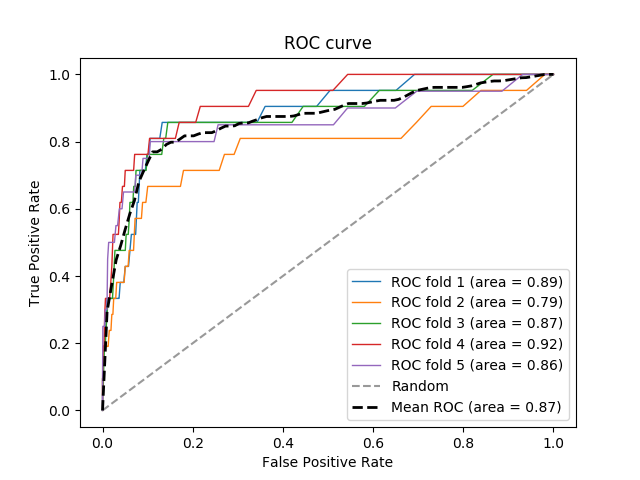
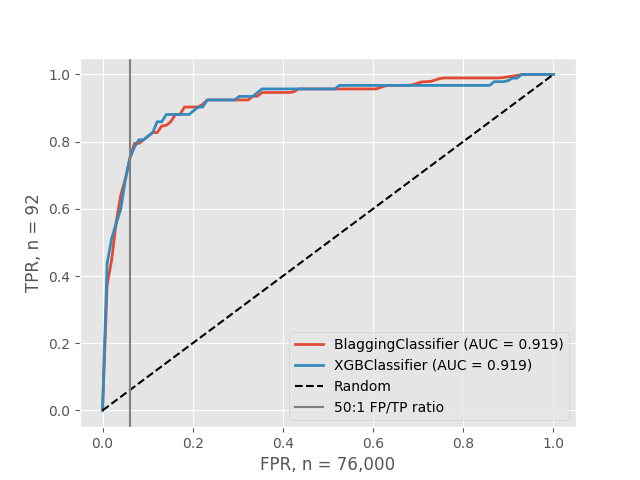
distance 2d

diff --git a/model/distance.py b/model/distance.py
@@ -1,8 +1,11 @@
 import pandas as pd
 import numpy as np
+import geopy.distance
 from scipy.stats import beta, gamma, sem
 from sklearn.mixture import GaussianMixture
 import matplotlib.pyplot as plt
+from matplotlib import cm
+# plt.style.use('ggplot')
 import scipy.stats as scs
 
 def fit_gamma(distances):
@@ -46,17 +49,59 @@ def fit_gauss_mix(distances):
     print('AIC: {}, BIC: {}'.format(gm.aic(distances), gm.bic(distances)))
     fig, ax = plt.subplots(1, 1)
     ax.hist(distances, normed=True, bins=20)
-    xmin, xmax = 0, 600
+    xmin, xmax = 0, 525
     x = np.linspace(xmin, xmax, 200)
     ax.plot(x, gauss0.pdf(x))
     ax.plot(x, gauss1.pdf(x))
-    ax.axvline(x=gauss0.ppf(.99), color='grey')
+    plt.xlabel('Distance from circle center (meters)')
+    plt.ylabel('Fraction of addresses')
+    # ax.axvline(x=gauss0.ppf(.99), color='grey')
     plt.show()
+
+def get_distances(df_row):
+    lat1 = df_row['latitude']
+    lon1 = df_row['longitude']
+    lat2 = df_row['true_latitude']
+    lon2 = df_row['true_longitude']
+    lat_dir = (lat2-lat1)/abs(lat2-lat1) # 1 if address is north of circle center, -1 if south
+    lon_dir = (lon2-lon1)/abs(lon2-lon1) # 1 if address is east of circle center, -1 if west
+    df_row['lat_distance'] = geopy.distance.vincenty((lat1, lon1), (lat2, lon1)).km*1000*lat_dir
+    df_row['lon_distance'] = geopy.distance.vincenty((lat1, lon1), (lat1, lon2)).km*1000*lon_dir
+    return df_row
+
+def plot_distances_2d(matches):
+    fig, ax = plt.subplots(figsize=(8,8))
+    plt.rcParams.update({'font.size': 18})
+    circle1 = plt.Circle((0, 0), 500, color='.8', zorder=-3)
+    circle2 = plt.Circle((0, 0), 300, color='.7', zorder=-2)
+    circle3 = plt.Circle((0, 0), 200, color='cyan', zorder=-1)
+    ax.add_artist(circle1)
+    ax.add_artist(circle2)
+    ax.add_artist(circle3)
+    ax.scatter(0, 0, s=60, color='red')
+    ax.scatter(matches.lon_distance, matches.lat_distance, marker=(3,0,0), s=80, color='blue', alpha=.8, zorder=1, label='True Address')
+    ax.vlines(x=200, ymin=-550, ymax=0, color='red', linestyle='--', linewidth=1.2)
+    ax.vlines(x=300, ymin=-550, ymax=0, color='red', linestyle='--', linewidth=1.2)
+    ax.set_xlim([-550, 550])
+    ax.set_ylim([-550, 550])
+    ax.set_xticks([-500, 0, 200, 300, 500])
+    ax.set_yticks([])
+    ax.spines['bottom'].set_color('grey')
+    ax.xaxis.label.set_color('grey')
+    ax.tick_params(axis='x', colors='grey')
+    ax.spines['top'].set_visible(False)
+    ax.spines['right'].set_visible(False)
+    ax.spines['left'].set_visible(False)
+    # plt.legend(loc='upper left')
+    plt.savefig('../visualize/distance_2d.png', dpi=600, transparent=True)
+    # plt.show()
 
 if __name__ == '__main__':
     plt.close('all')
     matches = pd.read_csv('../data/final_validated.csv')
     distances = matches.listing_distance.apply(lambda x: 1000*x).values.reshape((-1, 1)) #convert to meters, put in nx1 array.
-    fit_gauss_mix(distances)
+    matches = matches.apply(get_distances, axis=1)
+    plot_distances_2d(matches)
+    # fit_gauss_mix(distances)
     # fit_gamma(distances)
     # fit_beta(distances)

diff --git a/model/roc_curve2.py b/model/roc_curve2.py
@@ -10,7 +10,11 @@ from imblearn.over_sampling import SMOTE
 
 def plot_ROC_curve(classifiers, X, y, balancing=[], pos_label=1, n_folds=5):
     '''
-    Classifiers and balancing are lists.
+    Input:
+    -classifiers is a list of sklearn classifier objects
+    -balancing is a list of sklearn over- and undersampling techniques
+    Output:
+    -a single plot with ROC curves for all balancing-classifier combinations
     '''
     print(balancing)
     if len(balancing) > 0:
@@ -18,24 +22,28 @@ def plot_ROC_curve(classifiers, X, y, balancing=[], pos_label=1, n_folds=5):
         for cl in classifiers:
                 for b in balancing:
                     mean_tpr, mean_fpr, mean_auc = get_ROC_curve(cl, X, y, b)
-                    plt.plot(mean_fpr, mean_tpr, label=cl.__class__.__name__ + ' (area = %0.3f)' % mean_auc, lw=2)
+                    plt.plot(mean_fpr, mean_tpr, label=cl.__class__.__name__ + ' (AUC = %0.3f)' % mean_auc, lw=2)
     else:
         for cl in classifiers:
             mean_tpr, mean_fpr, mean_auc = get_ROC_curve(cl, X, y)
-            plt.plot(mean_fpr, mean_tpr, label=cl.__class__.__name__ + ' (area = %0.3f)' % mean_auc, lw=2)
+            plt.plot(mean_fpr, mean_tpr, label=cl.__class__.__name__ + ' (AUC = %0.3f)' % mean_auc, lw=2)
 
     plt.plot([0, 1], [0, 1], '--', color='black', label='Random')
-    plt.axvline(x=30*y.sum()/len(y), label='30:1 FP/TP ratio', color='grey') # FPR such that FP:TP = 30:1
+    plt.axvline(x=50*y.sum()/len(y), label='50:1 FP/TP ratio', color='grey') # FPR such that FP:TP = 30:1
     # plt.axhline(y=.6, color='grey')
     plt.xlim([-0.05, 1.05])
     plt.ylim([-0.05, 1.05])
-    plt.xlabel('False Positive Rate (of {} addresses)'.format(len(y)))
-    plt.ylabel('True Positive Rate (of {} addresses)'.format(sum(y)))
-    plt.title('ROC curve')
+    plt.xlabel('FPR, n = 76,601')
+    plt.ylabel('TPR, n = 92')
+    # plt.title('ROC curve')
     plt.legend(loc="lower right")
     plt.show()
 
 def get_ROC_curve(classifier, X, y, balancing=None, pos_label=1, n_folds=5):
+    '''
+    Called by plot_ROC_curve.  Outputs mean ROC curve and mean AUC from n-fold validation
+    on the balancing-classifier pair.
+    '''
     mean_tpr = 0.0
     mean_fpr = np.linspace(0, 1, 100)
     all_tpr = []
@@ -60,6 +68,9 @@ def get_ROC_curve(classifier, X, y, balancing=None, pos_label=1, n_folds=5):
     return mean_tpr, mean_fpr, mean_auc
 
 def plot_PR_curve(classifier, X, y, n_folds=5):
+    '''
+    Plots the average precision-recall curve for a classifier over n-fold cross validation.
+    '''
     skf = StratifiedKFold(n_splits=n_folds, random_state=40, shuffle=True)
     i = 1
     for train, test in skf.split(X, y):

diff --git a/model/profit_avg.py b/model/profit_avg.py
@@ -50,14 +50,14 @@ def profit_curve(predicted_probs, labels, revenue, cost, thresholds):
     for threshold in thresholds:
         y_predict = np.array([1 if p >= threshold else 0 for p in predicted_probs])
         confusion_matrix = standard_confusion_matrix(labels, y_predict)
-        threshold_profit = np.sum(confusion_matrix * cost_benefit)/actual_positives #divide by n_obs to get 'per observation' profit
+        threshold_profit = np.sum(confusion_matrix * cost_benefit)/actual_positives #divide # of AirBNB properties we're testing
         # print(confusion_matrix)
         # print(threshold_profit)
         # print('----------------')
         profits.append(threshold_profit)
     return np.array(profits)
 
-def plot_avg_profits(classifier, n_splits=5, revenue=50, cost=1.50):
+def plot_avg_profits(classifier, n_splits=5, revenue=50, cost=1):
     plt.close('all')
     fig = plt.figure(figsize=(10,8))
     ax1 = fig.add_subplot(1,1,1)
@@ -65,20 +65,21 @@ def plot_avg_profits(classifier, n_splits=5, revenue=50, cost=1.50):
     skf = StratifiedKFold(n_splits=n_splits, random_state=40, shuffle=True)
     thresholds = np.linspace(.05, 1, 200)
     avg_profits = np.zeros(len(thresholds))
-    i=1
+    i=0
     for train, test in skf.split(X, y):
+        i += 1
         print('Predicting fold {}...'.format(i))
         classifier.fit(X[train], y[train])
         predicted_probs = classifier.predict_proba(X[test])[:,1]
         profits = profit_curve(predicted_probs, y[test], revenue, cost, thresholds)
         avg_profits += profits
-        i += 1
         # plot_model_profits(y[test], predicted_probs, revenue, cost, ax1)
+    avg_profits = avg_profits/i #divide by number of folds
     ax1.plot(thresholds, avg_profits*10000)
-    plt.title("Profit Curve")
-    plt.xlabel("<-- Classify everything as a match | Classify nothing as a match -->")
-    plt.ylabel("Profit per 10,000 AirBNB properties")
-    plt.ylim([-250000, 1250000])
+    # plt.title("Profit Curve")
+    # plt.xlabel("<-- Classify everything as a match | Classify nothing as a match -->")
+    # plt.ylabel("$ Profit per 10,000 AirBNB properties")
+    plt.ylim([-50000, 150000])
     # plt.legend(loc='best')
     plt.tight_layout()
     plt.show()

diff --git a/munge/featurize.py b/munge/featurize.py
@@ -1,7 +1,6 @@
 import pandas as pd
 
 '''FEATURES:
-zipcode
 neighbor_count: Number of 'neighbors' in radius
 lat_offset: Difference in latitude (AirBNB minus Tax Assessor)
 lon_offset: Difference in longitude (AirBNB minus Tax Assessor)
@@ -14,6 +13,8 @@ bath_diff: Bathrooms on AirBNB listing minus Bathrooms in Assessor Data
 name_score: Max similarity scores of AirBNB Host Name(s) and PartyOwner 1 and 2.
 
 CANDIDATES DROPPED:
+zipcode
+accomodates
 pool_a: boolean -- swimming pool in airbnb listing
 pool_t: boolean -- swimming pool in tax assessor data
 AreaBuilding: not useful without 'accomodates' data

diff --git a/model/compare_models.py b/model/compare_models.py
@@ -22,9 +22,8 @@ if __name__ == '__main__':
     adb = AdaBoostClassifier(random_state=42)
     blag = BlaggingClassifier(base_estimator=DecisionTreeClassifier(criterion='entropy', max_features=.5), n_estimators=200, random_state=42, n_jobs=-1)
     xg = XGBClassifier(scale_pos_weight=10, max_delta_step=1)
-    classifiers = [xg, blag]
+    classifiers = [blag, xg]
     balancing = []
     # profit_avg.plot_avg_profits(blag)
     profit_avg.plot_avg_profits(xg)
-    # profit.plot_all_profits(xg)
     # rc2.plot_ROC_curve(classifiers, X, y, balancing=balancing)
